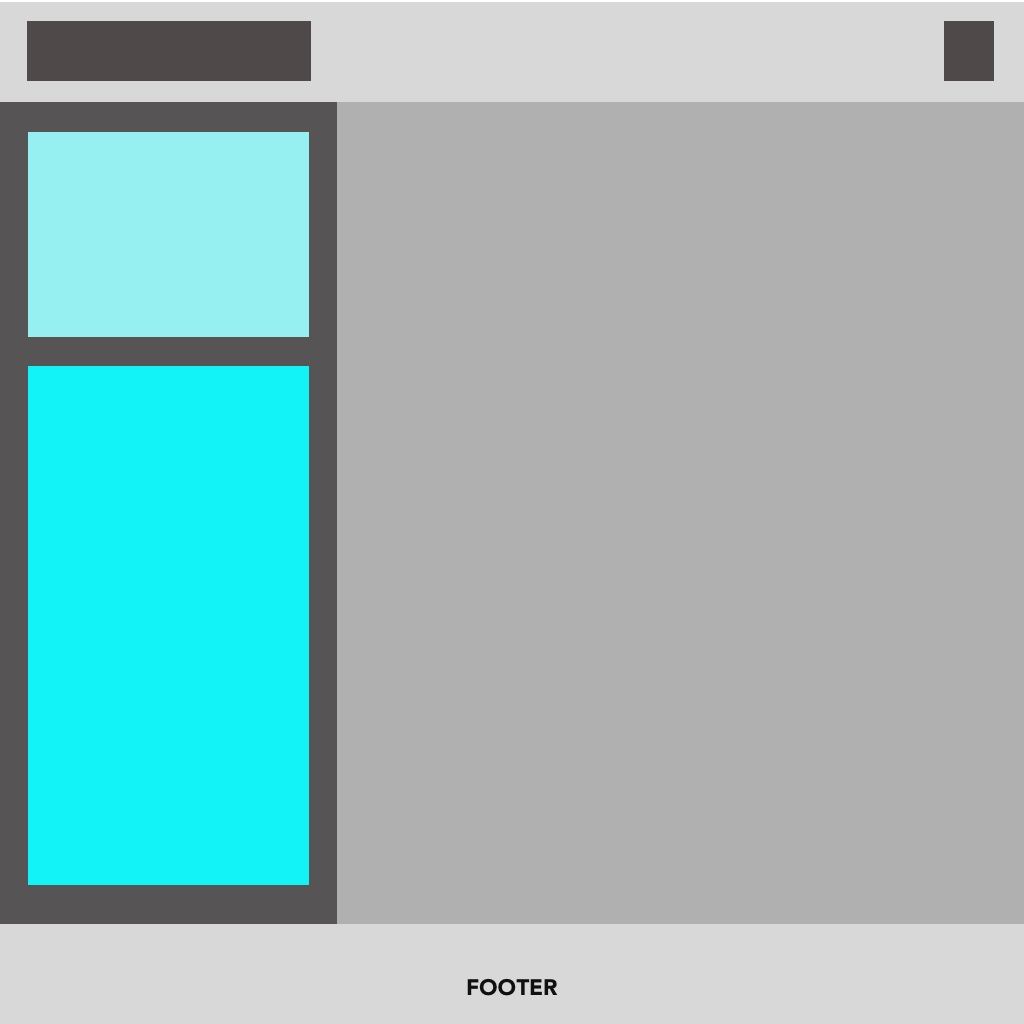
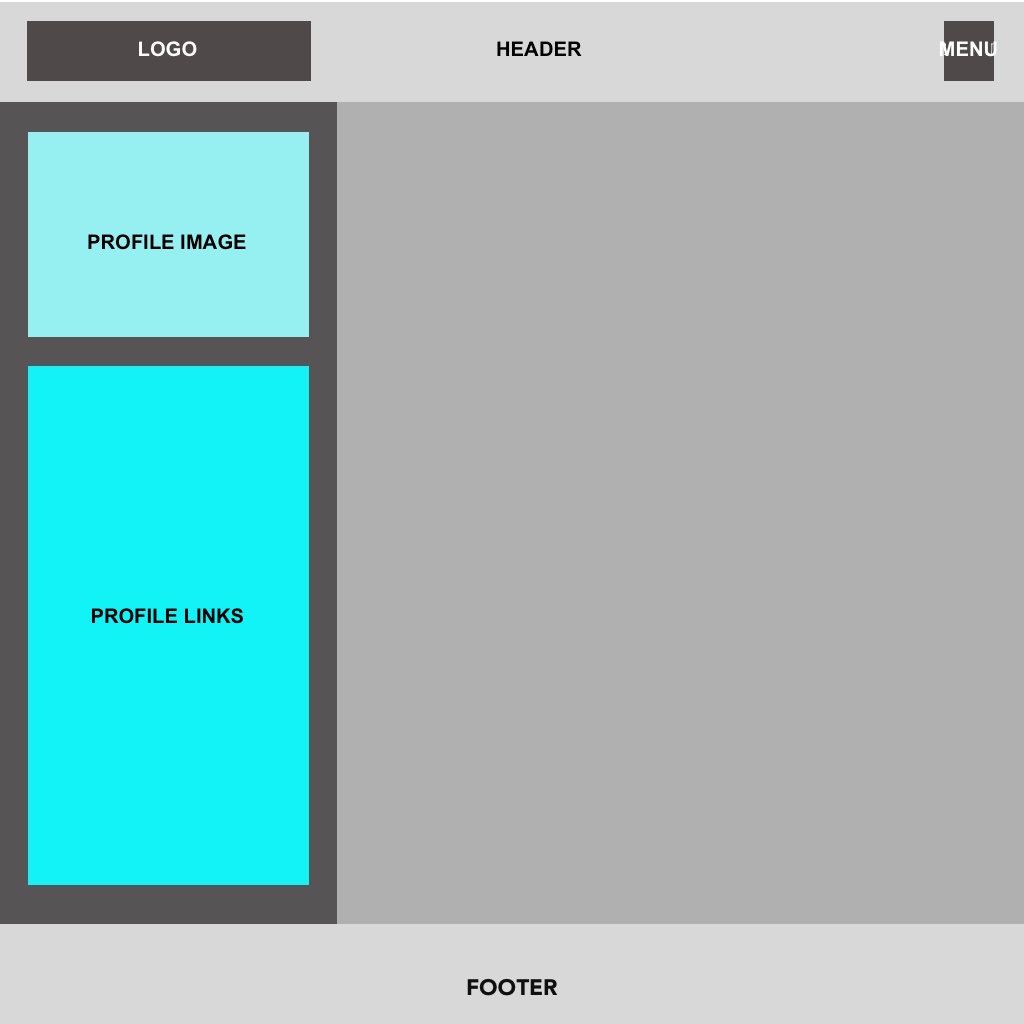
typos, organization, remove solution out of assignment, add text in images to clarify

diff --git a/level-1/step-1/step-1.css b/level-1/step-1/step-1.css
@@ -1,4 +1,4 @@
-/*  Step-1.1 You don't need to put a position on this element because it is already at the top of the screen */
+/*  Step-1.1 You don't need to put a position on this element because it is already at the top of the screen  - go to Step 1.2*/
 
 .header {
     width: 100%;
@@ -7,7 +7,8 @@
 
 }
 
-/* Step-1.2 I would suggest using float to get this container in it's desired location*/
+/* Step-1.2 Position content-left to the left of screen.
+(I would suggest using float.)*/
 
 .content-left {
     width: 33.3%;
@@ -17,7 +18,8 @@
 }
 
 
-/* Step-1.3 I would suggest using float to get this container in it's desired location. */
+/* Step-1.3 Position content-mid to the right of content left. Make this container take up the remaining width of the screen.
+(I would suggest using float.) */
 
 .content-mid {
     width: 66.3%;
@@ -27,7 +29,9 @@
 
 }
 
-/* Step-1.4 your going to want to add a positioning property to get this container to the bottom of the screen  */
+/* Step-1.4 
+Position footer at the bottom of screen.
+(You're going to want to add a positioning property. )*/
 
 .footer {
     width: 100%;

diff --git a/level-1/step-4-possible-solution/step-2.css b/level-1/step-4-possible-solution/step-2.css
@@ -1,5 +1,23 @@
 /* Step-2.1 add styles to match the step-2 design */
 
+.profile-image-container {
+    width: 80%;
+    height: 180px;
+    margin: auto;
+    background: #96F0F2;
+}
+
+/* Step-2.2 add styles to match the step-2 design */
+
+.profile-links-container {
+    width: 80%;
+    height: 300px;
+    margin: 20px auto;
+    background: #12F3F7;
+}
+
+/* Step-2.3 add styles to match the step-2 design */
+
 .logo-container {
     width: 26%;
     height: 60px;
@@ -8,7 +26,7 @@
     margin-top: 20px;
     background: #4F4949;
 }
-/* Step-2.1 add styles to match the step-2 design */
+/* Step-2.4 add styles to match the step-2 design */
 
 .menu-container {
     width: 60px;
@@ -17,21 +35,4 @@
     margin-right: 10px;
     margin-top: 20px;
     background: #4F4949;
-}
-/* Step-2.1 add styles to match the step-2 design */
-
-.profile-image-container {
-    width: 80%;
-    height: 180px;
-    margin: auto;
-    background: #96F0F2;
-}
-
-/* Step-2.1 add styles to match the step-2 design */
-
-.profile-links-container {
-    width: 80%;
-    height: 300px;
-    margin: 20px auto;
-    background: #12F3F7;
 }

diff --git a/level-1/index.html b/level-1/index.html
@@ -9,13 +9,14 @@
 
 
     <!-- STEP 1 CSS FILE **** STEP 1 CSS FILE *** STEP 1 CSS FILE -->
-    <link rel="stylesheet" href="step-1/step-1.css">
+    
 
     <!-- STEP 2 CSS FILE **** STEP 2 CSS FILE *** STEP 2 CSS FILE -->
-    <link rel="stylesheet" href="step-2/step-2.css">
+    
 
     <!-- STEP 3 CSS FILE **** STEP 3 CSS FILE *** STEP 3 CSS FILE -->
-    <link rel="stylesheet" href="step-3/step-3.css">
+    
+    
 
 </head>
 <body>
@@ -35,7 +36,7 @@
     <section class="main-section">
 
         <!-- Step-1.2 Position content-left to the left of the screen-->
-        <div class="content-left">
+        <div class="content-left"> 
 
             <!-- Step-2.1 add styles to match the step-2 design  -->
             <div class="profile-image-container"></div>

diff --git a/level-1/step-3/step-3.css b/level-1/step-3/step-3.css
@@ -3,15 +3,16 @@
     background: #444;
 }
 
-
-/* Step-3.3 add a margin top to give this container some space. Also your going to want to set the  margin-left and margin-right to auto. This will give equal distance left and right to the container. Essentially centering the container   */
-.content-container {
- background: #D8D8D8;
-}
-
-
 /* Step-3.2  Remember to add some padding and text-align*/
 
 .content {
 
 }
+
+
+/* Step-3.3 add a margin top to give this container some space. Also you're going to want to set the  margin-left and margin-right to auto. This will give equal distance left and right to the container. Essentially centering the container   */
+.content-container {
+ background: #D8D8D8;
+}
+
+

diff --git a/level-2/step-1/step-1.css b/level-2/step-1/step-1.css
@@ -4,8 +4,8 @@
     width: 100%;
     height: 375px;
     background: #F7F1E7;
-    position: relative;
-    /*You will need to add a position property to get this to look like he design */
+    
+    /*You will need to add a position property to get this to look like the design */
 
 }
 
@@ -18,7 +18,7 @@
 }
 
 /*  Step-1.2 You need to get all of these elements to line up side by side. What display property would do this for you? */
-/*  Step-1.2 You will also need t add a position property to the logo and sign in containers */
+/*  Step-1.2 You will also need to add a position property to the logo and sign in containers */
 
 .menu {
     width: 100px;

diff --git a/level-3/index.html b/level-3/index.html
@@ -8,12 +8,12 @@
 
 
     <!-- STEP 1 CSS FILE **** STEP 1 CSS FILE *** STEP 1 CSS FILE -->
-    <link rel="stylesheet" href="step-1/step-1.css">
+
 
     <!-- STEP 2 CSS FILE **** STEP 2 CSS FILE *** STEP 2 CSS FILE -->
-    <link rel="stylesheet" href="step-2/step-2.css">
 
-    <!--&lt;!&ndash; STEP 3 CSS FILE WHEN YOU GET THIS FAR COMMENT OUT step-2.css and step-1.css AND JUST WORK OF THIS FILE &ndash;&gt;-->
+
+    <!-- STEP 3 CSS FILE WHEN YOU GET THIS FAR COMMENT OUT step-2.css and step-1.css AND JUST WORK OF THIS FILE -->
     <!--<link rel="stylesheet" href="step-3/step-3.css">-->
 
 

diff --git a/level-2/index.html b/level-2/index.html
@@ -8,13 +8,13 @@
 
 
     <!-- STEP 1 CSS FILE **** STEP 1 CSS FILE *** STEP 1 CSS FILE -->
-    <link rel="stylesheet" href="step-1/step-1.css">
+
 
     <!-- STEP 2 CSS FILE **** STEP 2 CSS FILE *** STEP 2 CSS FILE -->
-    <link rel="stylesheet" href="step-2/step-2.css">
+    
 
     <!-- STEP 3 CSS FILE **** STEP 3 CSS FILE *** STEP 3 CSS FILE -->
-    <link rel="stylesheet" href="step-3/step-3.css">
+    
 
 </head>
 

diff --git a/level-1/step-4-possible-solution/step-3.css b/level-1/step-4-possible-solution/step-3.css
@@ -2,16 +2,15 @@
     height: 100px;
     background: #444;
 }
-
-.content-container {
-    width: 80%;
-    margin: 40px auto;
-    background: #D8D8D8;
-}
-
 .content {
     height: 275px;
     padding:50px;
     text-align: center;
 
+}
+
+.content-container {
+    width: 80%;
+    margin: 40px auto;
+    background: #D8D8D8;
 }

diff --git a/level-2/step-3-possible-solution/step-2.css b/level-2/step-3-possible-solution/step-2.css
@@ -1,5 +1,5 @@
 
-/* Step-2.1 add some padding so that the inner containers will have some space from the edges  */
+/* Step-2.1 add a property that will align items center  */
 .main-bottom-section {
     margin-top: 65px;
     text-align: center;

diff --git a/level-2/step-2/step-2.css b/level-2/step-2/step-2.css
@@ -21,7 +21,6 @@
     /*width*/
     /*height*/
     /*margin*/
-    margin:0 auto 30px;
     background: #DED6D3;
 }
 
